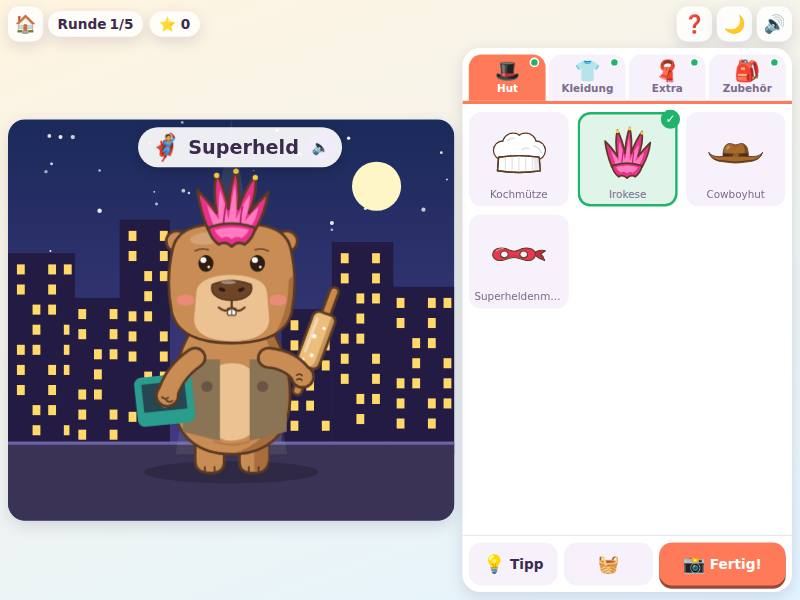
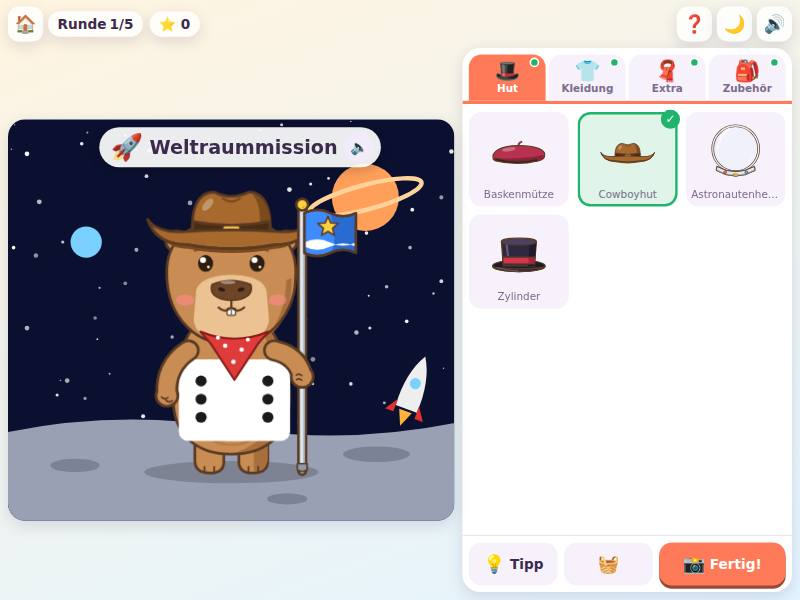
Capybara-Modenschau: rounder head, arms higher and further out
Claude-Session: https://claude.ai/code/session_01M7wP2W5AL2J2jsTdGDXtSF

diff --git a/anziehen_2/art/capybara.js b/anziehen_2/art/capybara.js
@@ -12,15 +12,15 @@
     CHEEK = '#ff8a8a';
 
   var BODY = 'M90 146C74 164 64 194 66 226C68 258 90 274 120 274C150 274 172 258 174 226C176 194 166 164 150 146Z';
-  var HEAD = 'M120 54C148 54 170 56 175 78C179 96 180 118 176 138C172 158 152 168 120 168C88 168 68 158 64 138C60 118 61 96 65 78C70 56 92 54 120 54Z';
+  var HEAD = 'M120 51C155 51 178 66 180 96C182 138 158 169 120 169C82 169 58 138 60 96C62 66 85 51 120 51Z';
   var MUZZLE = 'M87 121C87 108 103 103 120 103C137 103 153 108 153 121L155 145C155 160 140 166 120 166C100 166 85 160 85 145Z';
   var LEG_L = 'M86 250V280Q86 292 100 292Q113 292 113 281V250Z';
   var LEG_R = 'M127 250V281Q127 292 140 292Q154 292 154 280V250Z';
 
   // Arme: Schulter -> Ellbogen (Kontrollpunkt) -> Pfote (Griffpunkt)
   var ARM = {
-    L: { s: [86, 182], c: [66, 196], p: [60, 218] },
-    R: { s: [154, 182], c: [176, 184], p: [186, 200] }
+    L: { s: [80, 175], c: [58, 190], p: [60, 218] },
+    R: { s: [160, 175], c: [182, 180], p: [186, 200] }
   };
   function armPath(a, t) {
     // Teilstück 0..t der quadratischen Kurve (de Casteljau)
@@ -50,7 +50,7 @@
     '<circle cx="171" cy="71" r="10" fill="' + FUR + '" stroke="' + O + '" stroke-width="2.5"/><circle cx="169.5" cy="72.5" r="4.8" fill="' + EAR + '"/>' +
     // Kopf (kastenförmig, breite stumpfe Schnauze)
     '<path d="' + HEAD + '" fill="' + FUR + '"/>' +
-    '<path d="M177 104C180 128 175 150 158 162C168 148 173 130 173 108Z" fill="' + SH + '"/>' +
+    '<path d="M176 106C177 132 169 152 152 163C164 149 171 131 171 108Z" fill="' + SH + '"/>' +
     '<ellipse cx="98" cy="68" rx="17" ry="6" fill="#fff" opacity=".2" transform="rotate(-6 98 68)"/>' +
     '<path d="M112 58Q116 51 119 57Q122 50 126 57" fill="none" stroke="' + O + '" stroke-width="2" stroke-linecap="round" stroke-linejoin="round"/>' +
     '<path d="' + MUZZLE + '" fill="' + LT + '"/>' +
@@ -133,7 +133,7 @@
       cheeks: [[77, 127], [163, 127]],
       chin: [120, 168],
       neck: [120, 158],            // Hals / Kragen, Breite ca. 96..144
-      shoulders: [[86, 182], [154, 182]],
+      shoulders: [[80, 175], [160, 175]],
       chest: [120, 190],
       belly: [120, 224],           // Bauch-Ellipse rx 33 ry 37
       bodyPath: BODY,              // Körperumriss (x 66..174, y 146..274)

diff --git a/anziehen_2/art/STYLE.md b/anziehen_2/art/STYLE.md
@@ -45,7 +45,7 @@ Zeichenfläche **240 × 300**, x nach rechts, y nach unten, Mitte x = 120. „Li
 | Nase / Mund / Kinn | (120, 117) / (120, 134) / (120, 168) |
 | Wangen | (77, 127), (163, 127) |
 | Hals / Kragen | (120, 158), Breite ca. x 96 … 144 |
-| Schultern (Armansatz) | (86, 182), (154, 182) |
+| Schultern (Armansatz) | (80, 175), (160, 175) |
 | Brust / Bauch | (120, 190) / Bauch-Ellipse (120, 224) rx 33 ry 37 |
 | Körper | `anchors.bodyPath`, x 66 … 174, y 146 … 274 |
 | Pfote links (Griffpunkt) | (60, 218) – Arm hängt locker nach unten-außen |
